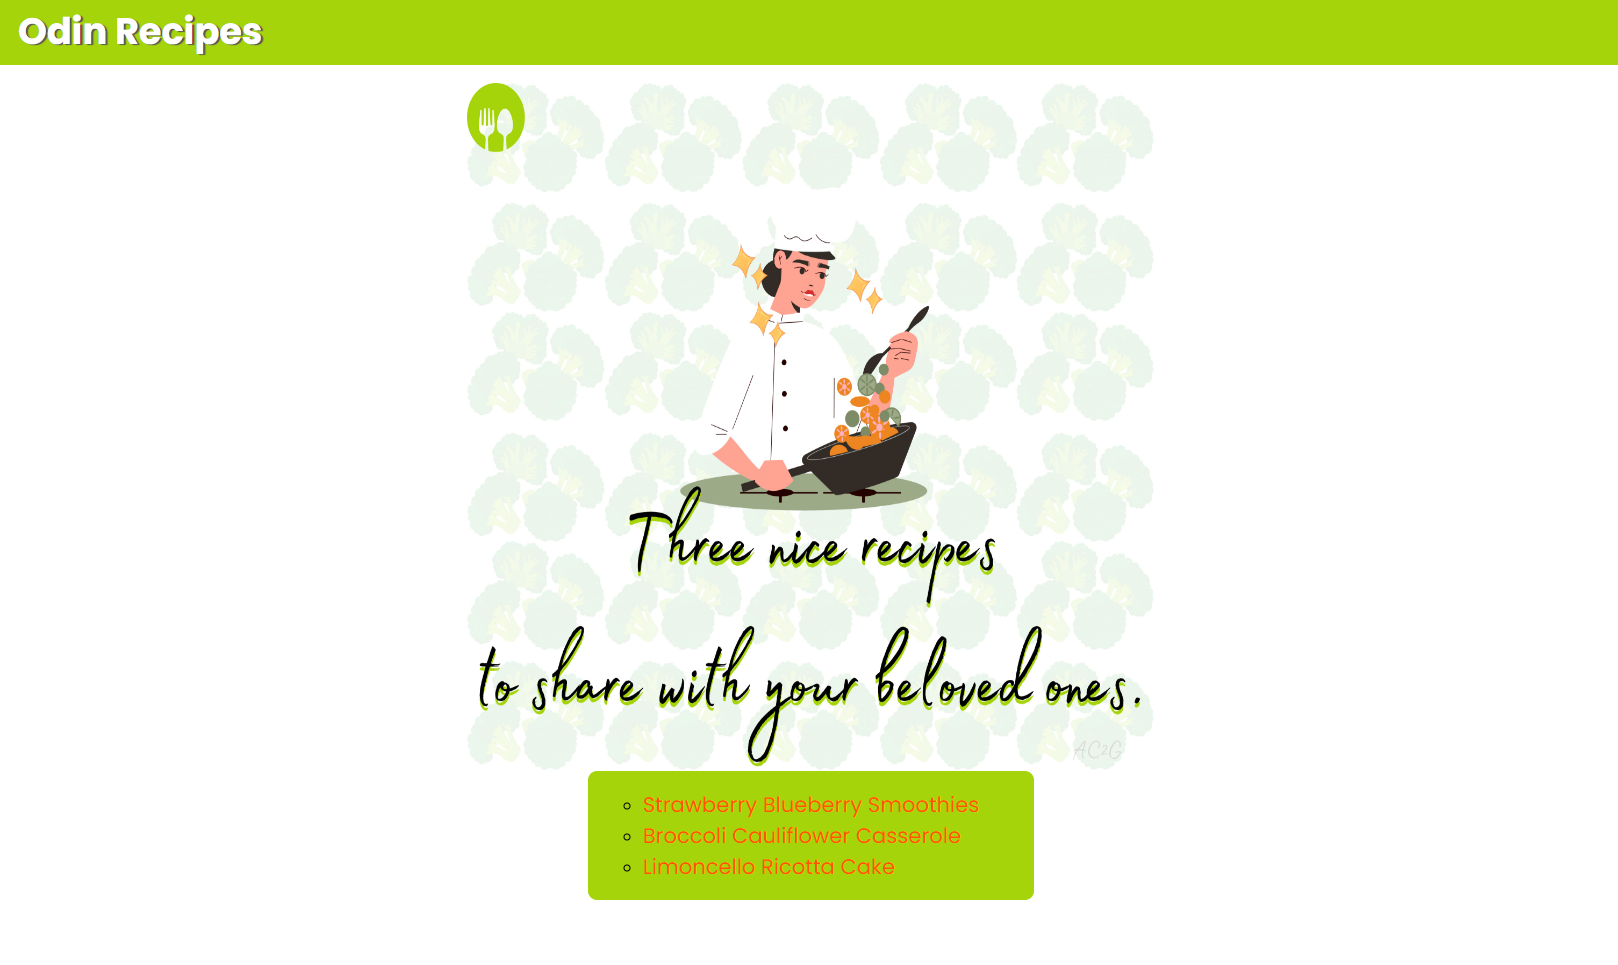
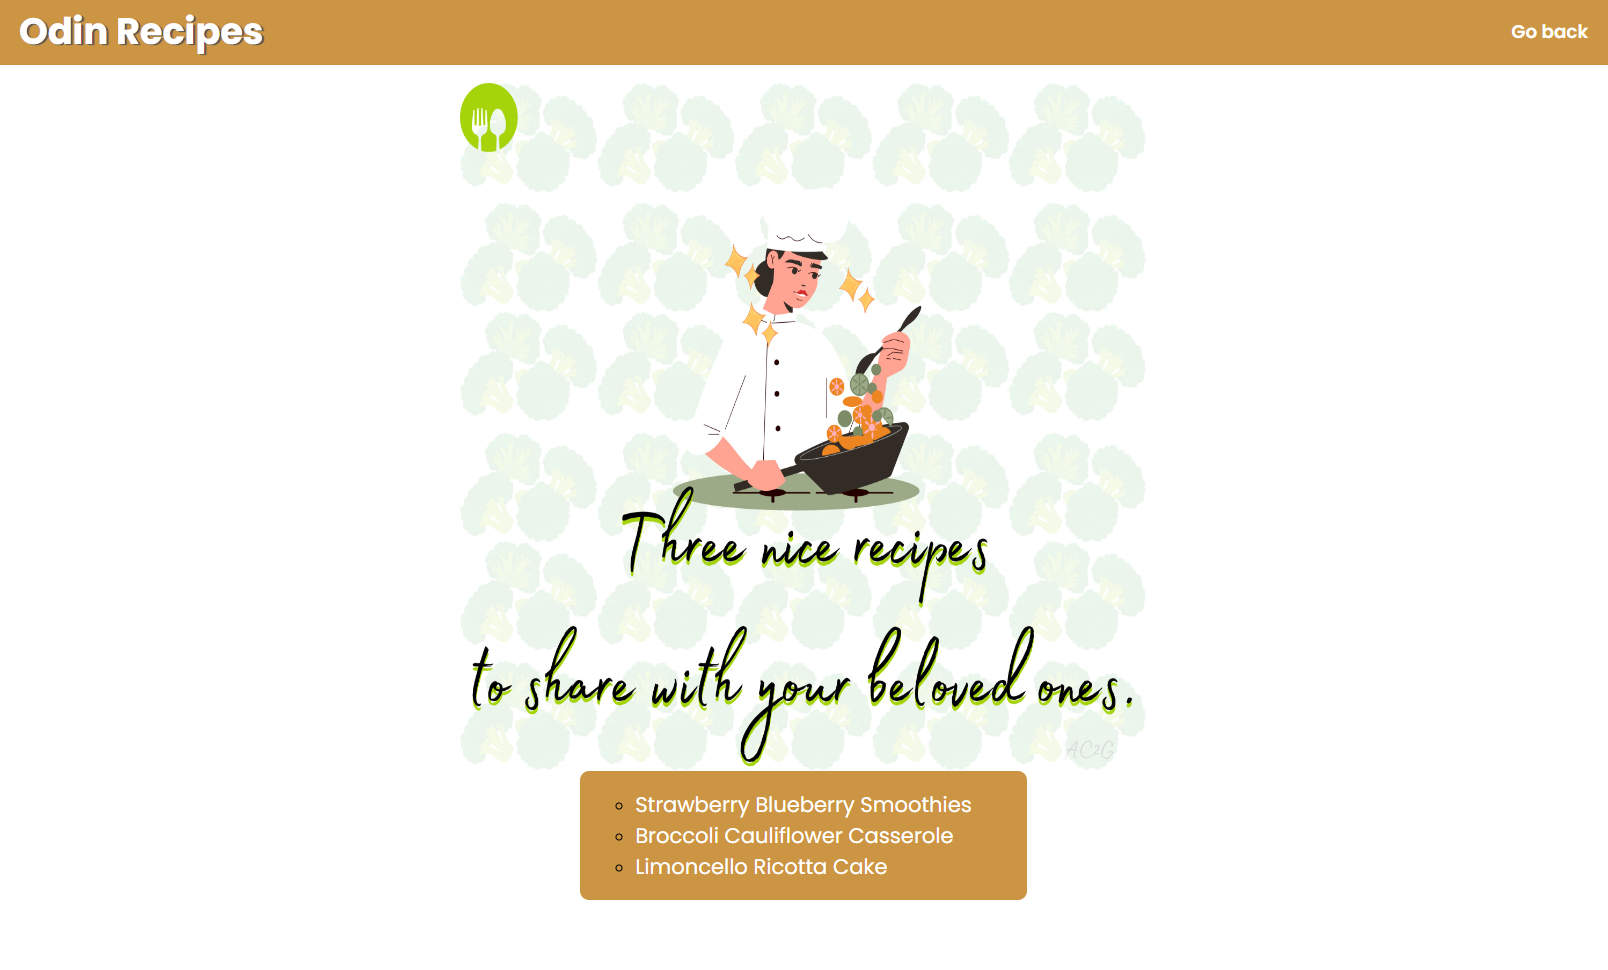
Change main color for sub-webs of the odin project
Improved visualization of the odin project main page.

diff --git a/the-odin-proj/css/styles.css b/the-odin-proj/css/styles.css
@@ -48,14 +48,40 @@ header a:hover {
   flex-direction: column;
   justify-content: center;
   align-items: center;
+  background-color: #fcecd3;
+  padding: 1rem;
 }
 
 .card a {
   font-size: 1.2rem;
   margin-top: 1rem;
   text-decoration: none;
+  color: #e99519;
 }
 
 .card a:hover {
   text-decoration: underline;
+}
+
+@media screen and (min-width: 48rem) {
+  .card {
+    margin-bottom: 1rem;
+  }
+}
+
+@media screen and (min-width: 64rem) {
+  .content {
+    display: flex;
+    flex-wrap: wrap;
+    padding: 2rem;
+    gap: 2rem;
+  }
+
+  .card {
+    background-color: #fcecd3;
+    width: 510px;
+    padding: 1rem;
+    flex-direction: column;
+    justify-content: space-between;
+  }
 }

diff --git a/the-odin-proj/odin-recipes/css/styles.css b/the-odin-proj/odin-recipes/css/styles.css
@@ -24,7 +24,7 @@ html {
   margin: 0 0 1rem 0;
   padding: 0.8rem 1.25rem;
   line-height: 1;
-  background-color: #a5d40a;
+  background-color: #cc9543;
   color: #fff;
   display: flex;
   justify-content: space-between;
@@ -37,7 +37,8 @@ html {
 
 .header a {
   text-decoration: none;
-  color: #f50;
+  color: #fff;
+  font-weight: 600;
 }
 
 .welcome {
@@ -46,7 +47,7 @@ html {
 }
 
 .ul-wrapper {
-  background-color: #a5d40a;
+  background-color: #cc9543;
   padding: 1rem 3rem;
   border-radius: 0.5rem;
 }
@@ -58,7 +59,7 @@ html {
 li > a {
   text-decoration: none;
   font-size: 1.15rem;
-  color: #f50;
+  color: #fff;
 }
 
 li a:hover {

diff --git a/the-odin-proj/odin-recipes/recipes/recipes-css/broccoli-cass.css b/the-odin-proj/odin-recipes/recipes/recipes-css/broccoli-cass.css
@@ -13,7 +13,7 @@ html {
 header {
   display: flex;
   gap: 1rem;
-  background-color: #a5d40a;
+  background-color: #cc9543;
   align-items: center;
   font-size: 0.8rem;
   line-height: 2;
@@ -32,14 +32,14 @@ header a {
   padding: 0.5rem;
   border: none;
   border-radius: 0.5rem;
-  background-color: #536a05;
+  background-color: #684817;
   color: #fff;
   font-weight: 600;
   cursor: pointer;
 }
 
 .home-btn:hover {
-  background-color: #758e22;
+  background-color: #89560a;
 }
 
 .recipe-img {

diff --git a/the-odin-proj/odin-recipes/recipes/recipes-css/limoncello-cake.css b/the-odin-proj/odin-recipes/recipes/recipes-css/limoncello-cake.css
@@ -13,7 +13,7 @@ html {
 header {
   display: flex;
   gap: 1rem;
-  background-color: #a5d40a;
+  background-color: #cc9543;
   align-items: center;
   font-size: 0.8rem;
   line-height: 2;
@@ -32,14 +32,14 @@ header a {
   padding: 0.5rem;
   border: none;
   border-radius: 0.5rem;
-  background-color: #536a05;
+  background-color: #684817;
   color: #fff;
   font-weight: 600;
   cursor: pointer;
 }
 
 .home-btn:hover {
-  background-color: #758e22;
+  background-color: #89560a;
 }
 
 .recipe-img {

diff --git a/the-odin-proj/odin-recipes/recipes/recipes-css/strawberry-smoothie.css b/the-odin-proj/odin-recipes/recipes/recipes-css/strawberry-smoothie.css
@@ -13,7 +13,7 @@ html {
 header {
   display: flex;
   gap: 1rem;
-  background-color: #a5d40a;
+  background-color: #cc9543;
   align-items: center;
   font-size: 0.8rem;
   line-height: 2;
@@ -32,14 +32,14 @@ header a {
   padding: 0.5rem;
   border: none;
   border-radius: 0.5rem;
-  background-color: #536a05;
+  background-color: #684817;
   color: #fff;
   font-weight: 600;
   cursor: pointer;
 }
 
 .home-btn:hover {
-  background-color: #758e22;
+  background-color: #89560a;
 }
 
 .recipe-img {
